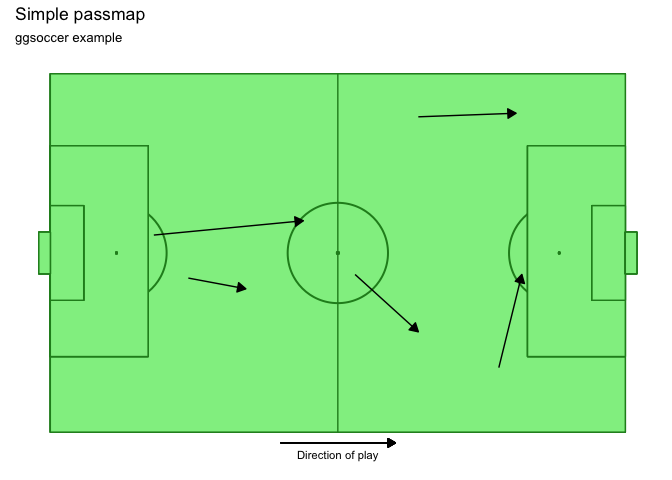
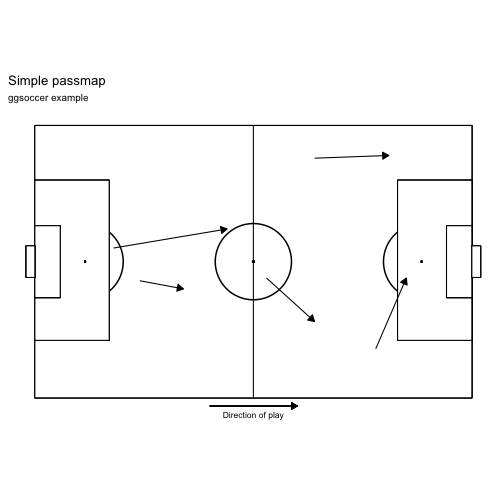
Vary examples a bit more Show use with ggplot coords in shot map.

diff --git a/README.md b/README.md
@@ -1,59 +1,45 @@
+---
+output:
+  github_document:
+    html_preview: false
+---
 
 <!-- README.md is generated from README.Rmd. Please edit that file -->
-ggsoccer
-========
 
-Overview
---------
+
+
+# ggsoccer
+
+## Overview
 
 ggsoccer provides a handful of functions to make plotting Opta-style soccer event data in R/ggplot2.
 
-Installation
-------------
+## Installation
 
 ggsoccer is not currently available on CRAN and must be downloaded from github like so:
 
-``` r
+
+```r
 # install.packages("devtools")
 devtools::install_github("torvaney/ggsoccer")
 ```
 
-Usage
------
+## Usage
 
-The following example uses ggsoccer to solve a fairly realistic problem: plot a set of shots onto a soccer pitch.
+The following example uses ggsoccer to solve a fairly realistic problem: plot a set of passes onto a soccer pitch.
 
-``` r
+
+```r
 library(ggplot2)
 library(ggsoccer)
 
-shots <- data.frame(x = c(90, 85, 82, 78, 83),
-                    y = c(43, 40, 52, 56, 44))
-
-ggplot(shots, aes(x = x, y = y)) +
-  annotate_pitch() +
-  geom_point(size = 3) +
-  theme_pitch() +
-  direction_label() +
-  xlim(-1, 101) +
-  ylim(-5, 101) +
-  ggtitle("Simple shotmap",
-          "ggsoccer example")
-```
-
-![](man/figures/README-example_shots-1.png)
-
-You may want to customise your pitch plot. Here is a different example, plotting passes on a green pitch:
-
-``` r
 pass_data <- data.frame(x = c(24, 18, 64, 78, 53),
                         y = c(43, 55, 88, 18, 44),
-                        x2 = c(34, 44, 81, 82, 64),
-                        y2 = c(40, 59, 89, 44, 28))
+                        x2 = c(34, 44, 81, 85, 64),
+                        y2 = c(40, 62, 89, 44, 28))
 
 ggplot(pass_data) +
-  annotate_pitch(colour = "forestgreen",
-                 fill = "lightgreen") +
+  annotate_pitch() +
   geom_segment(aes(x = x, y = y, xend = x2, yend = y2),
                arrow = arrow(length = unit(0.25, "cm"),
                              type = "closed")) +
@@ -65,4 +51,26 @@ ggplot(pass_data) +
           "ggsoccer example")
 ```
 
-![](man/figures/README-example_passes-1.png)
+![plot of chunk example_passes](man/figures/README-example_passes-1.png)
+
+Because ggsoccer is implemented as ggplot layers, it makes customising a plot very easy. Here is a different example, plotting shots on a gray pitch:
+
+
+```r
+
+shots <- data.frame(x = c(90, 85, 82, 78, 83, 74),
+                    y = c(43, 40, 52, 56, 44, 71))
+
+ggplot(shots, aes(x = x, y = y)) +
+  annotate_pitch(colour = "gray50",
+                 fill = "gray90") +
+  geom_point(fill = "white", size = 3, pch = 21) +
+  theme_pitch() +
+  coord_flip(xlim = c(49, 101),
+             ylim = c(-1, 101)) +
+  ggtitle("Simple shotmap",
+          "ggsoccer example")
+```
+
+![plot of chunk example_shots](man/figures/README-example_shots-1.png)
+
